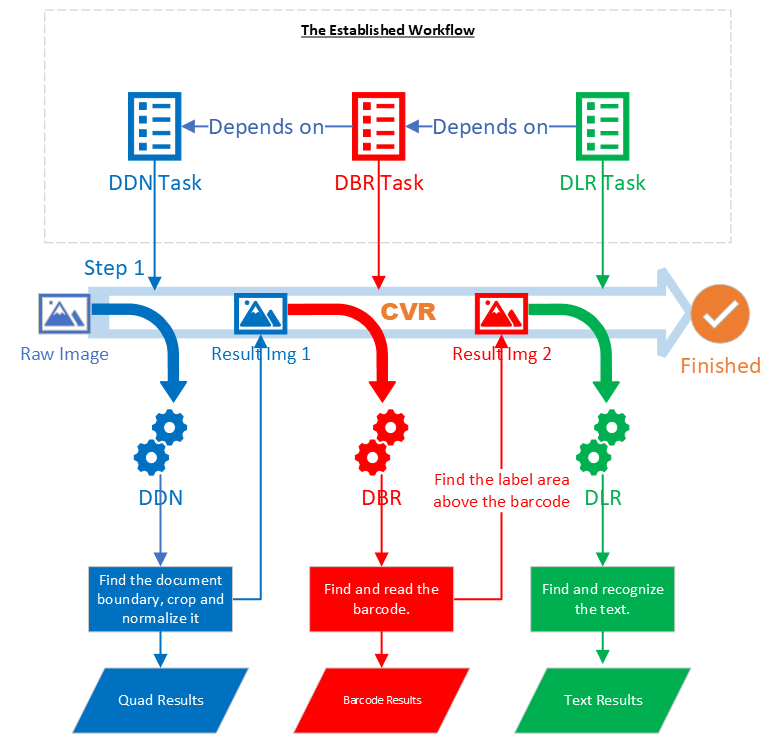
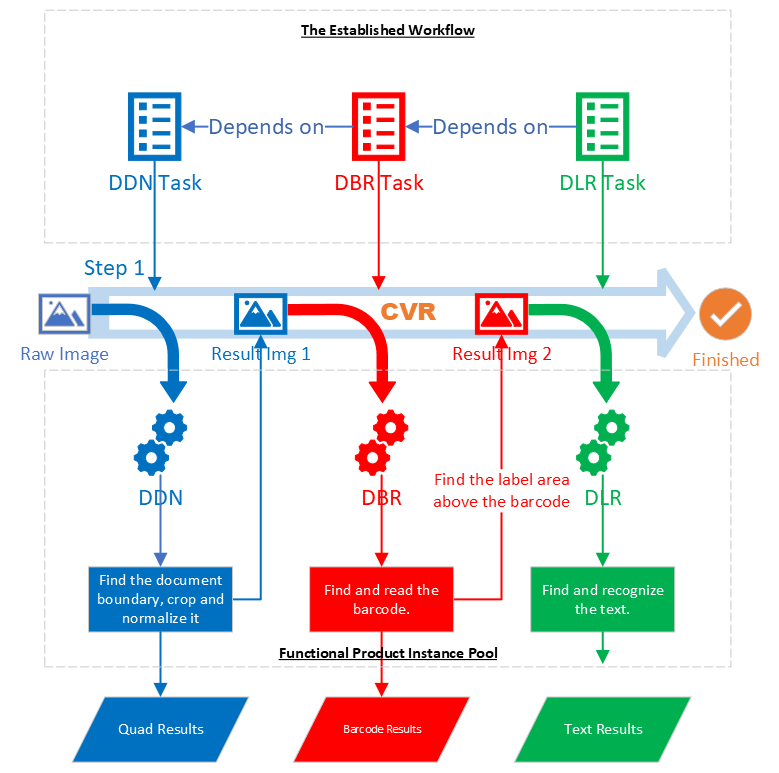
architecture doc 80% done

diff --git a/architecture/index.md b/architecture/index.md
@@ -26,7 +26,9 @@ The diagram below shows the architecture of Dynamsoft Capture Vision (DCV) and h
 
 ![DCV Architecture](assets/dcv-architecture.png)
 
-As shown in the diagram, all functional products are passive in the architecture. In other words, they are either told to perform a task or given the result of another task, both of which are done by the active part of the architecture known as Capture Vision Router (CVR).
+***Diagram 1: DCV Architecture***
+
+As shown in diagram 1, all functional products are passive in the architecture. In other words, they are either told to perform a task or given the result of another task, both of which are done by the active part of the architecture known as Capture Vision Router (CVR).
 
 ## Capture Vision Router
 
@@ -64,13 +66,11 @@ Results are produced throughout the processing workflow of images. We categorize
 
 There is no limit to the number of listening objects.
 
-#### How the dispatch is done
-
->>>>>>>
-
 The following diagram is a simple demostration of the process:
 
 ![CVR Tasks](assets/CVR-Tasks.png)
+
+***Diagram 2: CVR Tasks***
 
 ## Architecture Advantages
 
@@ -88,19 +88,21 @@ In the architecture, scalability is demonstrated in the following aspects:
   > Dynamsoft is also an expert on utilizing scanners with our TWAIN products, we are working on making our TWAIN products ISA-compliant as well.
   > 
   > ISA is an open interface, and Dynamsoft provides a skeleton implementation based on which customers can build their own image sources. For example, one that supplies images on the cloud.
-2. Depending on the business requirments, CVR can use only one or up to all four functional modules to perform tasks on the same images and produce multiple kinds of results.
+2. Depending on the business requirments, CVR can use only one or up to all four functional products to perform tasks on the same images and produce multiple kinds of results.
   > CVR takes care of task coordination internally, which means the customer application can use the same API to get different results.
 3. The same results from processing the same images can be reused multiple times simply by adding more listener objects.
 
 ### Flexibility With Customizable Workflows
 
-In the architecure, flexibility is achieved through task coordination.
+In the DCV architecure, flexibility is achieved through task coordination.
 
-Task coordination is a process in which CVR establishes a workflow connecting different tasks, and then calls upon corresponding functional modules to perform these tasks against each image.
+Task coordination is a process in which CVR establishes a workflow connecting different tasks, and then calls upon corresponding functional products to perform these tasks against each image.
 
-Let's take the following image as an example
+Let's take the following sample image as an example
 
 ![sample-image](assets/sample-image-requirements.jpg)
+
+***Figure 1: Sample Image***
 
 The requirements are:
 
@@ -108,11 +110,54 @@ The requirements are:
 2. Read the barcode **on the form** to get the patient id. This is a DBR task.
 3. Read the text **above the barcode** to determine whether the patient tested positive for Covid-19. This is a DLR task.
 
-The following diagram is a simple demonstration of the coordination:
+Diagram 3 is a simple demonstration of the coordination:
 
 ![CVR-Task-Coordination](assets/CVR-Tasks-Coordination.png)
 
-### Simplicity with Packable Scenarios
-
+***Diagram 3: CVR Task Coordination***
 
 ### High Performance With Shared Computations
+
+With multiple functional products working together in the DCV architecture guided by CVR, it is possible to achieve maximized performance. The reason behind lies in the ideas of "Intermediate Results Sharing" and "Parallel image processing".
+
+#### **Intermediate Results Sharing**
+
+When talking about how CVR ["Dispatch Results to Listening Objects"](#dispatch-results-to-listening-objects), we mentioned intermediate results which are produced on multiple check-points, known as stages, of a task. Then from ["Coordinate Image-Processing Tasks"](#coordinate-image-processing-tasks), we know that multiple tasks can be configured in one image-processing workflow. Take the "Sample Image" processing we just used to demostrate "CVR Task Coordination" as an example, the image is processed by DDN, then by DBR, then by DLR. All three tasks analyze the pixels of an image to find results, and they share similar analysis "stages". Under certain conditions, they can share the results of these stages, saving unnecessary computations and time.
+
+The following diagram is a simple demonstration of the idea:
+
+![Intermediate-Result-Sharing](assets/Intermediate-Result-Sharing.png)
+
+***Diagram 3: CVR Task Coordination***
+
+In the diagram, the assumptions are that all three tasks share stage 1 while DDN & DBR also share stage 2. When the workflow starts running, the following may happen:
+
+1. The DDN task performs operations for all 3 stages;
+2. The DBR task directly uses results from the DDN task for stage 1 & 2 and only needs to perform operation for stage 3;
+3. The DLR task directly uses the result from the DDN task and only needs to perform operations for stage 2 & 3.
+
+> NOTE
+> 1. Usually there are far more than 3 stages per task.
+> 2. In real time, it is also likely for an early task to use the intermediate result of a later task.
+
+#### **Parallel image processing**
+
+As shown above in diagram 3, CVR maintains a pool of instances containing functional product instances that can be invoked immediately for certain tasks. At runtime, CVR tries unstoppingly to get images from the image source and will try to start processing a new image as long as there is at least one idle functional instance to use.
+
+> An instance in the pool can be any instance (DBR/DDN/DLR/DCP) at any given time. This is determined and maintained by CVR at runtime.
+
+### Simplicity with Packable Scenarios
+
+Another benefit of the DCV Architecture is that the outward interface is very simple, which is yet another good thing brought by centering on CVR.
+
+Let's revisit the three jobs for CVR (refer to [Capture Vision Router](#capture-vision-router)  and "Diagram 2") introduced above:
+
+| Index | Description                            | Corresponding API of CVR                                                                                                               |
+| :-------- | :------------------------------------- | :------------------------------------------------------------------------------------------------------------------------------------- |
+| Job 1     | Get Images from the Image Source.      | `SetInput()` accepts an image source.                                                                                                  |
+| Job 2     | Coordinate Image-Processing Tasks.     | `InitSettings()` accepts a parameter file which defines one or multiple worflows and `StartCapturing()` specifies one workflow to use. |
+| Job 3     | Dispatch Results to Listening Objects. | `AddResultReceiver()` accepts one or multiple listening objects.                                                                       |
+
+Job 1 and 3 serve as "input" and "output" and are very straightforward. In different applications, the real difference is in job 2 where different arrangements of tasks mean the applications may do completely different things. For some usage scenarios, the workflows are usually consistent, which allows settings to be predefined as ["CaptureVisionTemplates"](../parameters/file/capture-vision-template.md) for them. We call these scenarios packable scenarios. Customers can specify one of these templates to use in their applications, thus dramatically simplifies their development.
+
+### Bidirectional Interactivity with Intermediate Results
